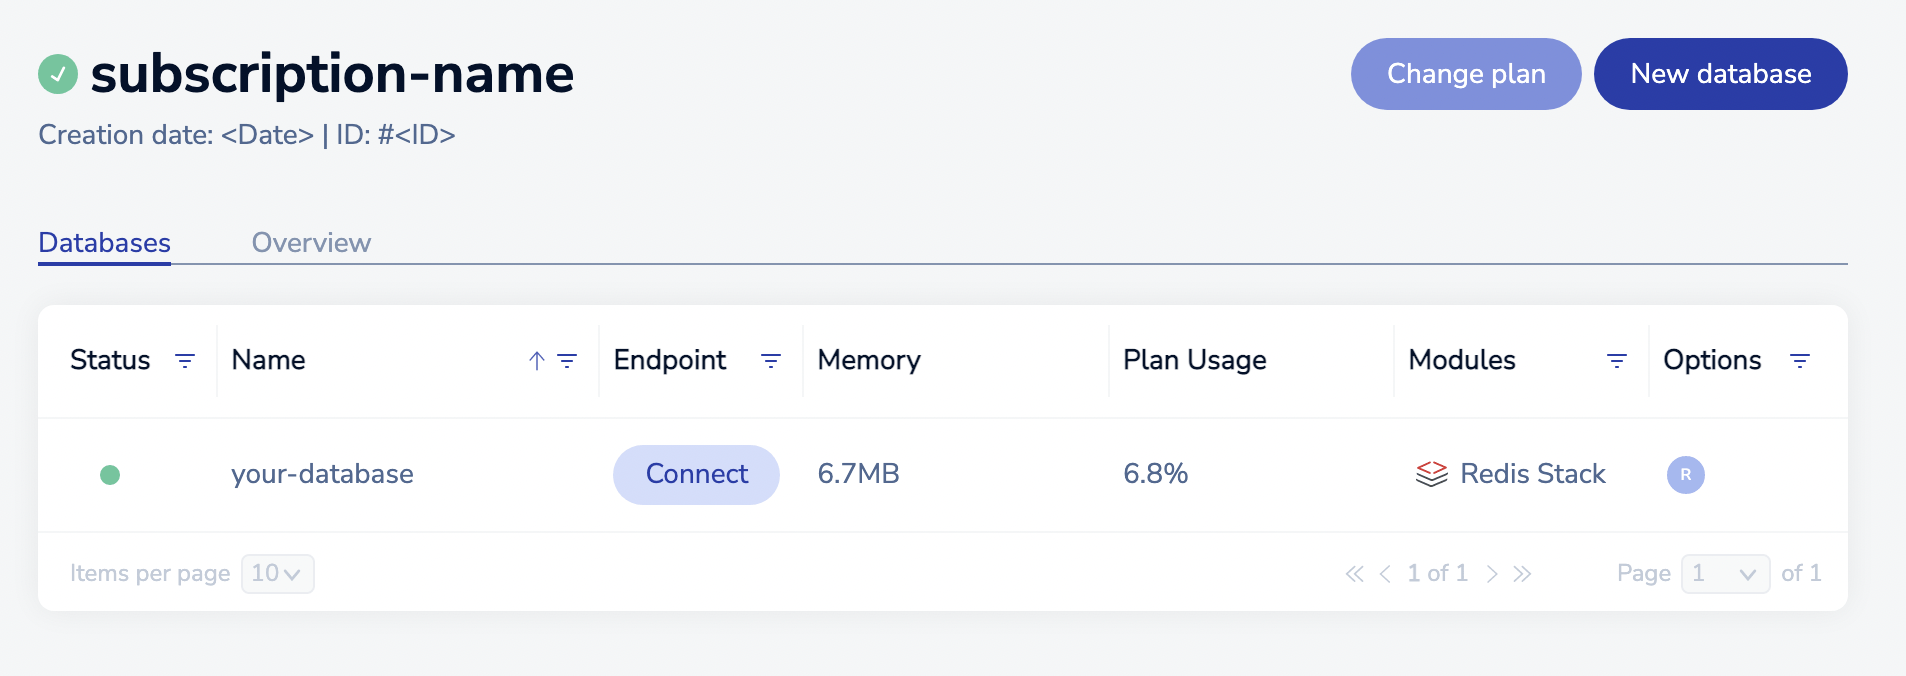
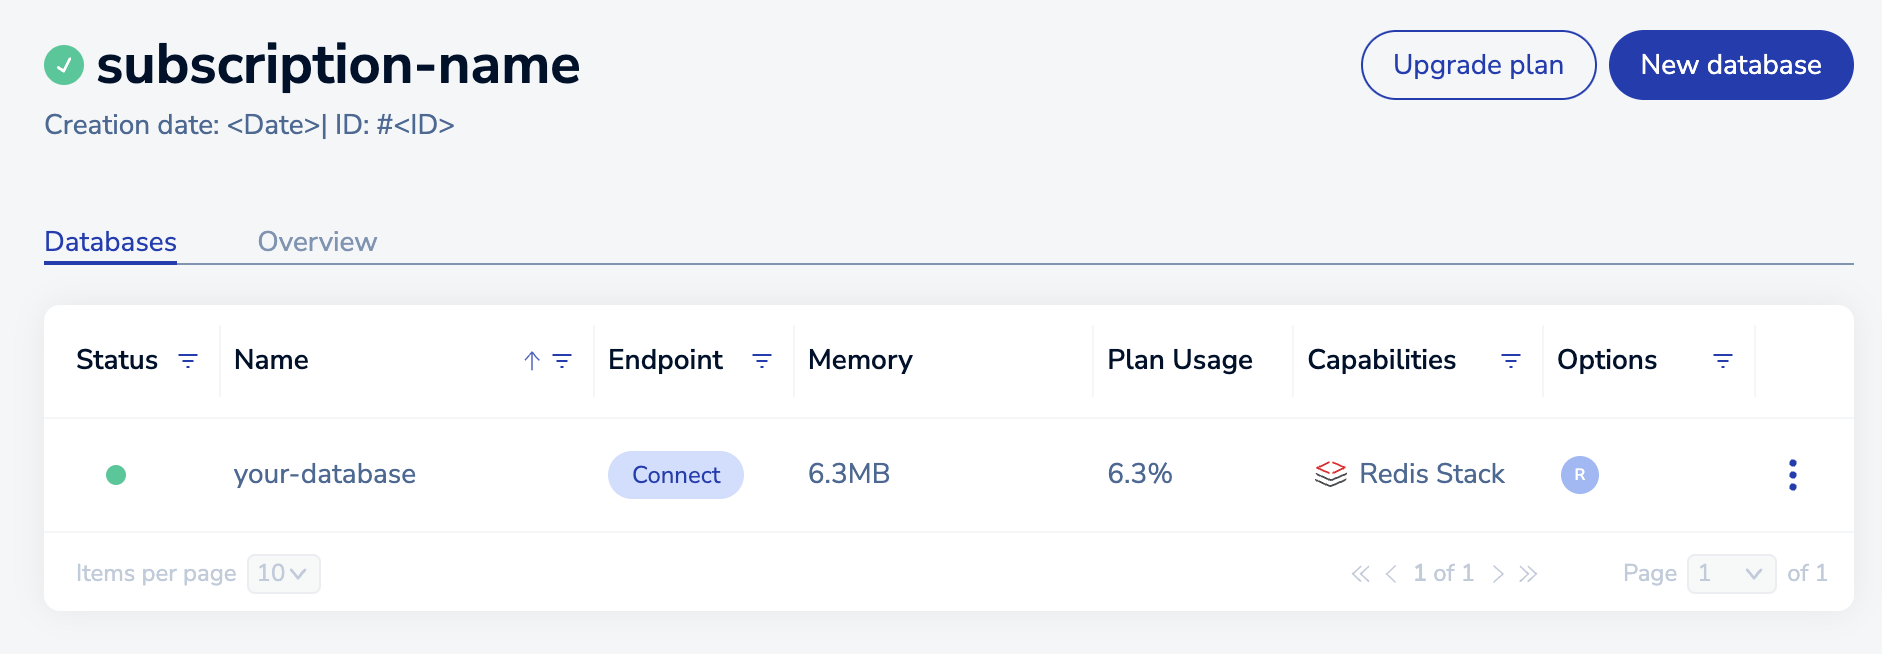
Fix modules->capabilities

diff --git a/content/rc/databases/create-database.md b/content/rc/databases/create-database.md
@@ -45,7 +45,7 @@ The available settings vary according to your subscription plan:
 | **Auto Tiering** | Checked when the subscription supports Auto Tiering (_Flexible or Annual subscriptions only_) |
 | **Database name** | A name for your database (_required_) |
 | **Database port** | Automatically or manually assigns a database port (range: 10000-19999) (_Flexible or Annual subscriptions only_) |
-| **Type**  | Controls optional capabilities, such as modules or protocol.  Supported values include _[Redis Stack](https://redis.io/docs/stack/)_ (available only for Fixed and Free), _Redis_ (default for Flexible and Annual subscriptions), and _Memcached_ |
+| **Type**  | Controls optional capabilities, such as capabilities or protocol.  Supported values include _[Redis Stack](https://redis.io/docs/stack/)_ (available only for Fixed and Free), _Redis_ (default for Flexible and Annual subscriptions), and _Memcached_ |
 | **Advanced capabilities** | Extend core Redis functionality using [advanced capabilities]({{<relref "/stack">}}).  Redis Enterprise Cloud supports selected advanced capabilities; for details, see [Redis Enterprise module support]({{<relref "/stack/enterprise-capabilities#redis-enterprise-module-support">}}) |
 | **Supported Protocol(s)** | Choose between RESP2 and RESP3 _(Redis 7.2 only)_. See [Redis serialization protocol](https://redis.io/docs/reference/protocol-spec/#resp-versions) for details |
 
@@ -82,7 +82,7 @@ Redis Stack is available only for Fixed and Free subscriptions.
 
 Flexible and Annual subscriptions let you choose advanced capabilities for each database.
 
-{{<image filename="images/rc/database-details-redis-module-select-flexible.png" alt="For Flexible and Annual subscriptions, you can select the modules included in your database." width="75%">}}{{< /image >}}
+{{<image filename="images/rc/database-details-redis-module-select-flexible.png" alt="For Flexible and Annual subscriptions, you can select the capabilites included in your database." width="75%">}}{{< /image >}}
 
 You can select more than one advanced capability for a database, though there are limits:
 
@@ -130,7 +130,7 @@ Here are some general guidelines:
 
 - Active-Active replication also doubles memory consumption.  The effect is cumulative; that is, if you enable Active-Active and replication, the memory size impact can be as large as four times (4x) the original data size.  (This is significantly reduced when [Auto Tiering]({{< relref "/rs/databases/auto-tiering/" >}}) is enabled.)
 
-- Modules also consume memory.
+- Advanced capabilities also consume memory.
 
 Memory limits in Redis Enterprise Cloud are subject to the same considerations as Redis Enterprise Software; to learn more, see [Database memory limits]({{< relref "/rs/databases/memory-performance/memory-limit.md" >}})
 

diff --git a/content/rc/subscriptions/create-flexible-subscription.md b/content/rc/subscriptions/create-flexible-subscription.md
@@ -130,7 +130,7 @@ By default, you're shown basic settings, which include:
 | Database&nbsp;setting | Description |
 |:---------|:-----------|
 | **Name** | A custom name for your database (_required_) |
-| **Advanced Capabilities** | Modules used by the database. Choose from [Search and query]({{< relref "/stack/search" >}}), [JSON]({{< relref "/stack/json" >}}), [Time series]({{< relref "/stack/timeseries" >}}), [Probabilistic]({{< relref "/stack/bloom" >}}), or [Graph (EOL)]({{< relref "/stack/deprecated-features/graph" >}}). |
+| **Advanced Capabilities** | Advanced data types used by the database. Choose from [Search and query]({{< relref "/stack/search" >}}), [JSON]({{< relref "/stack/json" >}}), [Time series]({{< relref "/stack/timeseries" >}}), [Probabilistic]({{< relref "/stack/bloom" >}}), or [Graph (EOL)]({{< relref "/stack/deprecated-features/graph" >}}). |
 | **Throughput/Shards** | Identifies maximum throughput for the database, which can be specified in terms of operations per second (**Ops/sec**) or number of shards dedicated to the database (**Shards**). |
 | **Memory Limit (GB)** | The size limit for the database. Specify small sizes as decimals of 1.0&nbsp;GB; example: `0.1` GB (minimum).|
 | **High Availability** | Indicates whether a replica copy of the database is maintained in case the primary database becomes unavailable.  (Warning: Doubles memory consumption). |

diff --git a/content/rc/cloud-integrations/pulumi/_index.md b/content/rc/cloud-integrations/pulumi/_index.md
@@ -58,7 +58,7 @@ The "bring your own AWS account" option for Redis Cloud has been deprecated. The
 
 * [`GetDataPersistence`](https://www.pulumi.com/registry/packages/rediscloud/api-docs/getdatapersistence/): Get the type of database persistence.
 * [`GetDatabase`](https://www.pulumi.com/registry/packages/rediscloud/api-docs/getdatabase/): Get the information related to a specific database.
-* [`GetDatabaseModules`](https://www.pulumi.com/registry/packages/rediscloud/api-docs/getdatabasemodules/): Get the modules for a specific database.
+* [`GetDatabaseModules`](https://www.pulumi.com/registry/packages/rediscloud/api-docs/getdatabasemodules/): Get the capabilities for a specific database.
 * [`GetPaymentMethod`](https://www.pulumi.com/registry/packages/rediscloud/api-docs/getpaymentmethod/): Get the payment method related to the Redis Cloud account.
 * [`GetRegions`](https://www.pulumi.com/registry/packages/rediscloud/api-docs/getregions/): Get the regions related to an active-active subscription
 * [`GetSubscription`](https://www.pulumi.com/registry/packages/rediscloud/api-docs/getsubscription/): Get the information related to a specific subscription.

diff --git a/content/rc/cloud-integrations/pulumi/get-started.md b/content/rc/cloud-integrations/pulumi/get-started.md
@@ -46,7 +46,7 @@ The Pulumi Python project includes three main files:
 
 - `pulumi.YOUR_PROJECT_NAME.yaml`: Contains the information related to the Cloud API access and secret key, credit card type and last 4 digits.
 
-- `__main__.py`: A Pulumi template file that creates a Redis Cloud flexible subscription. Use this template file as a starting point to create the subscription with a cloud provider and define specifications for the database (this includes memory, throughput, Redis modules, and other information).
+- `__main__.py`: A Pulumi template file that creates a Redis Cloud flexible subscription. Use this template file as a starting point to create the subscription with a cloud provider and define specifications for the database (this includes memory, throughput, Redis advanced capabilities, and other information).
 
 To deploy the resources described in `__main__.py`, run `pulumi up`. This will take some time. You will be able to see your subscription being created through the [admin console](https://app.redislabs.com/).
 

diff --git a/content/rc/cloud-integrations/terraform/_index.md b/content/rc/cloud-integrations/terraform/_index.md
@@ -28,7 +28,7 @@ The Redis Cloud Terraform provider allows for the following data sources:
 
 - [Subscriptions](https://registry.terraform.io/providers/RedisLabs/rediscloud/latest/docs/data-sources/rediscloud_subscription)
 - [Databases](https://registry.terraform.io/providers/RedisLabs/rediscloud/latest/docs/data-sources/rediscloud_database)
-- [Database modules](https://registry.terraform.io/providers/RedisLabs/rediscloud/latest/docs/data-sources/rediscloud_database_modules)
+- [Database capabilities](https://registry.terraform.io/providers/RedisLabs/rediscloud/latest/docs/data-sources/rediscloud_database_modules)
 - [Cloud accounts](https://registry.terraform.io/providers/RedisLabs/rediscloud/latest/docs/data-sources/rediscloud_cloud_account)
 - [Supported persistence options](https://registry.terraform.io/providers/RedisLabs/rediscloud/latest/docs/data-sources/rediscloud_data_persistence)
 - [Payment methods](https://registry.terraform.io/providers/RedisLabs/rediscloud/latest/docs/data-sources/rediscloud_payment_method)

diff --git a/content/rc/security/access-control/data-access-control/configure-acls.md b/content/rc/security/access-control/data-access-control/configure-acls.md
@@ -154,7 +154,7 @@ Redis Cloud includes three predefined permissions:
 
 - Read-Only (`+@read ~*`) - Only the `read` command category is allowed for all keys.
 
-### Module command permissions
+### Advanced capability command permissions
 
-Note that you can define permissions for the Redis module commands of any modules that are part of your subscription;
-however, these permissions can only be used for databases that support those modules.
+Note that you can define permissions for the Redis commands of any advanced capabilities that are part of your subscription;
+however, these permissions can only be used for databases that support those capabilities.

diff --git a/content/rc/subscriptions/view-flexible-subscription.md b/content/rc/subscriptions/view-flexible-subscription.md
@@ -58,7 +58,7 @@ The following details are provided:
 | **Endpoint** | Use the **Copy** button to copy the endpoint URI to the Clipboard |
 | **Memory** | Memory size of the database, showing the current size and the maximum size |
 | **Throughput** | Maximum operations per second supported for the database |
-| **Modules** | Identifies modules attached to the database |
+| **Capabilities** | Identifies advanced capabilities attached to the database |
 | **Options** | Icons showing options associated with the database |
 
 To view full details of a database, click its name in the list.
